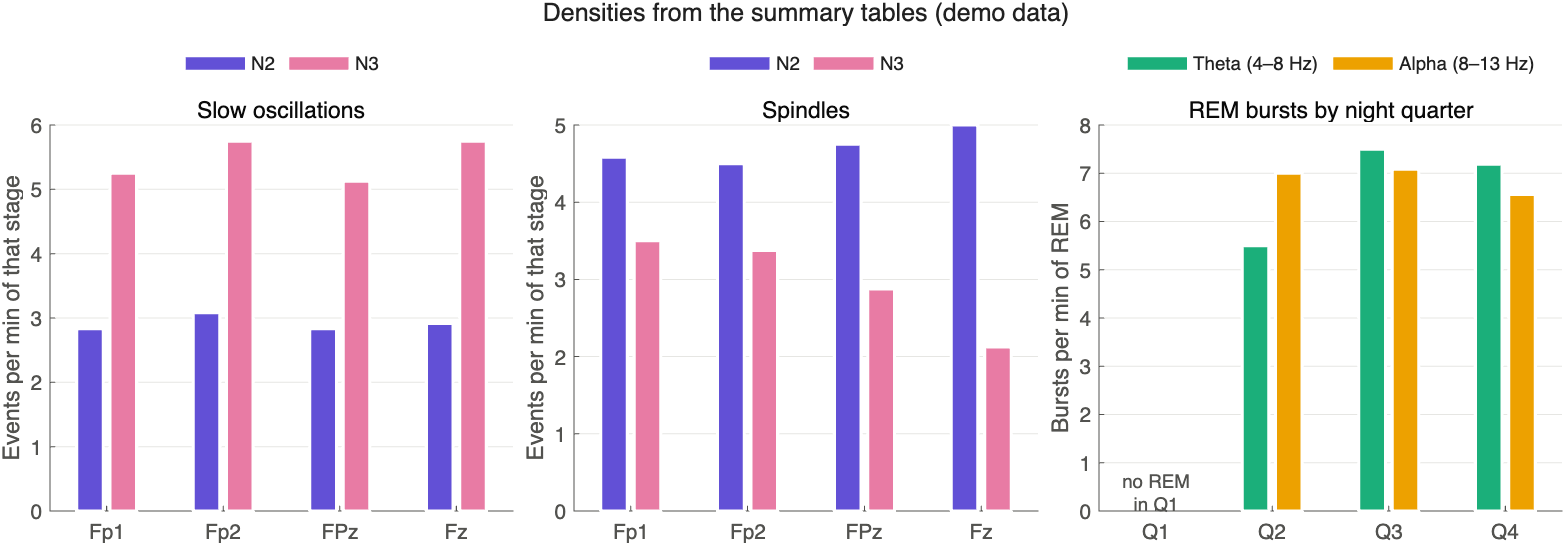
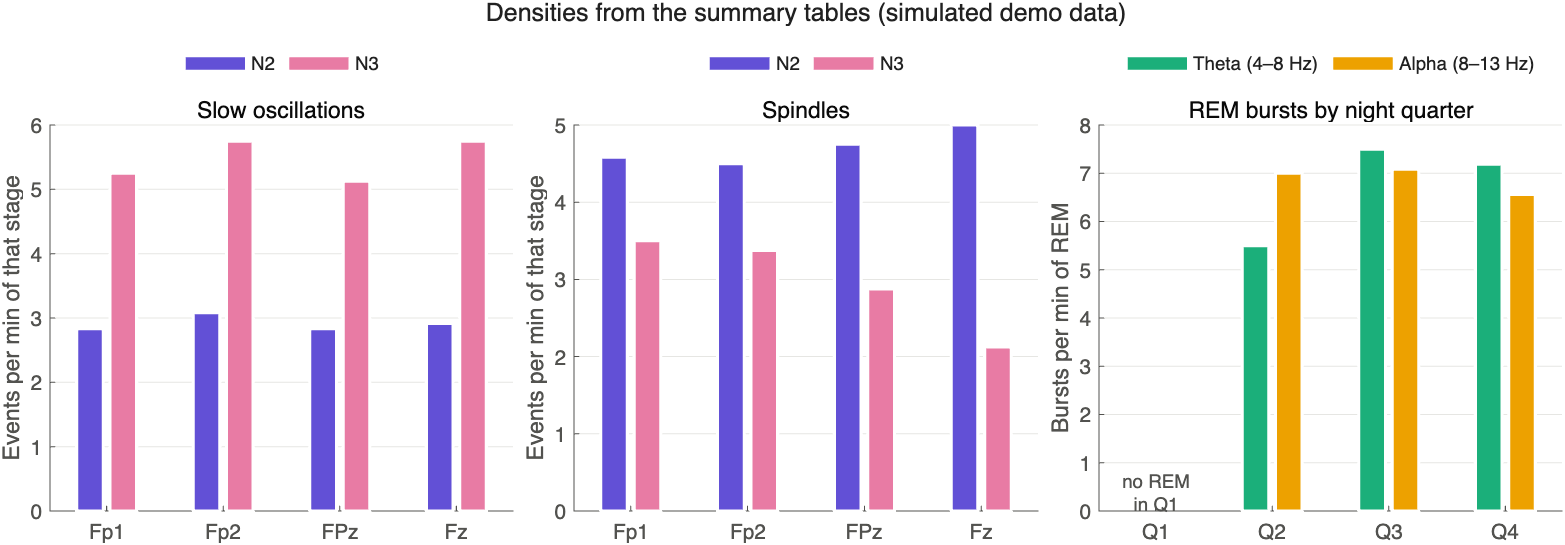
README and figures: state clearly that all figures come from simulated demo data

Changed region(s): [[0.3067, 0.0, 0.7361, 0.0624]]

diff --git a/docs/make_readme_figures.m b/docs/make_readme_figures.m
@@ -91,7 +91,7 @@ for k = find(isREM)
 end
 set(ax, 'YTick', 1:5, 'YTickLabel', names, 'XTickLabel', [], 'YLim', [0.5 5.5], 'XLim', [0 nightMin]);
 ax.YGrid = 'on';
-title(ax, 'Hypnogram and detected events (channel Fz, demo data)', 'FontWeight', 'normal', 'FontSize', 12);
+title(ax, 'Hypnogram and detected events (channel Fz, simulated demo data)', 'FontWeight', 'normal', 'FontSize', 12);
 
 rows = {
     'Slow oscillations', SO.SO_events.NegPeak_s(SO.SO_events.Channel == ch), C.blue;
@@ -144,7 +144,7 @@ env = abs(hilbert(xTH));
 w = t >= e.Start_s - 3 & t <= e.End_s + 3;
 plot(ax, t(w), env(w), 'Color', C.text2, 'LineWidth', 1);
 text(ax, e.End_s + 0.15, max(env(w)) * 0.95, 'envelope', 'Color', C.text2, 'FontSize', 9);
-title(tl, 'Example detections (channel Fz, demo data)', 'FontSize', 12);
+title(tl, 'Example detections (channel Fz, simulated demo data)', 'FontSize', 12);
 exportgraphics(f, fullfile(imgDir, '2_example_events.png'), 'Resolution', 150, 'BackgroundColor', 'white');
 
 %% Figure 3: wavelet map of the example spindle (saved by the toolbox)
@@ -177,7 +177,7 @@ ylabel(ax, 'Bursts per min of REM');
 title(ax, 'REM bursts by night quarter', 'FontWeight', 'normal');
 text(ax, 1, 0.4, {'no REM', 'in Q1'}, 'HorizontalAlignment', 'center', 'Color', C.text2, 'FontSize', 9);
 legend(ax, {'Theta (4–8 Hz)', 'Alpha (8–13 Hz)'}, 'Location', 'northoutside', 'Orientation', 'horizontal', 'Box', 'off');
-title(tl, 'Densities from the summary tables (demo data)', 'FontSize', 12);
+title(tl, 'Densities from the summary tables (simulated demo data)', 'FontSize', 12);
 exportgraphics(f, fullfile(imgDir, '4_summary_density.png'), 'Resolution', 150, 'BackgroundColor', 'white');
 
 %% Figure 5: detected vs. injected events (demo check)
@@ -197,7 +197,7 @@ end
 set(ax, 'XTick', 1:4, 'XTickLabel', labels, 'YLim', [0 110], 'YTick', 0:20:100);
 ax.YGrid = 'on';
 ylabel(ax, 'Injected events found (%)');
-title(ax, {'Demo check: how many injected events were detected', ...
+title(ax, {'Demo check (simulated data): how many injected events were detected', ...
     '\fontsize{9}\color[rgb]{0.32,0.32,0.31}bar = mean of 4 channels, circles = each channel'}, 'FontWeight', 'normal');
 exportgraphics(f, fullfile(imgDir, '5_demo_check.png'), 'Resolution', 150, 'BackgroundColor', 'white');
 

diff --git a/README.md b/README.md
@@ -7,7 +7,9 @@
 **Repository:** https://github.com/aliekhlasi/SleepRhythms
 
 ![Hypnogram and detected events across the demo night](docs/images/1_hypnogram_events.png)
-*Demo night, channel Fz: the hypnogram (top; REM shaded) and every event SleepRhythms detected. Slow oscillations and spindles appear in NREM sleep; theta and alpha bursts are counted in REM.*
+> **Note:** all figures on this page come from the built-in demo, which uses **simulated EEG** (1/f background noise with artificially added slow oscillations, spindles and bursts; see [The demo data](#the-demo-data)). They show how the toolbox works and what its outputs look like. They are **not results from real sleep recordings**.
+
+*Simulated demo night, channel Fz: the hypnogram (top; REM shaded) and every event SleepRhythms detected. Slow oscillations and spindles appear in NREM sleep; theta and alpha bursts are counted in REM.*
 
 ```mermaid
 flowchart LR
@@ -30,7 +32,7 @@ flowchart LR
 | **Alpha burst** | **8–13 Hz** | Envelope > mean + 2 SD (30-s window), duration 0.5–2 s | Whole recording | **REM** (night quarters, halves, whole night) |
 
 ![One example of each detected event](docs/images/2_example_events.png)
-*One detection of each kind from the demo (channel Fz). Top: raw EEG. Bottom: the band each detector works on. Shading: the detected event. For the theta burst, the gray line is the amplitude envelope that is compared with the threshold.*
+*One detection of each kind from the simulated demo data (channel Fz). Top: raw EEG. Bottom: the band each detector works on. Shading: the detected event. For the theta burst, the gray line is the amplitude envelope that is compared with the threshold.*
 
 ### Detected in vs. counted in the summary table
 
@@ -72,7 +74,7 @@ Density_per_min = number of events in that stage ÷ minutes scored as that stage
 The `N2+N3` density is **not** the average of the N2 and N3 densities: it's the combined count divided by the combined time. The minutes used are listed next to every density, in `StageDuration_min` (slow oscillations, spindles) or `REM_min` (bursts). If a stage doesn't occur in that period, its minutes are 0 and the density is `NaN`.
 
 ![Densities from the summary tables](docs/images/4_summary_density.png)
-*Densities from the demo's summary tables: slow oscillations and spindles per minute of N2 and N3 for each channel, and REM bursts per minute of REM in each night quarter (mean of the 4 channels). Q1 has no REM, so its density is `NaN`.*
+*Densities from the summary tables of the simulated demo data: slow oscillations and spindles per minute of N2 and N3 for each channel, and REM bursts per minute of REM in each night quarter (mean of the 4 channels). Q1 has no REM, so its density is `NaN`.*
 
 The EEG is first re-referenced to the mastoids. Every detected event is saved in a table (CSV and `.mat`) with its channel, sleep stage, timing and amplitude. A summary table gives counts and densities per channel.
 
@@ -155,6 +157,7 @@ A typical demo run finds about 80–90% of the injected slow oscillations, spind
 - The "extra" detections come from the random background, which by chance sometimes looks like an event.
 
 ![Demo check](docs/images/5_demo_check.png)
+*Simulated demo data: percentage of the artificially added events that the toolbox found, per event type.*
 
 The results differ slightly from run to run because the data are random. Use `rng(1)` before `Main_Toolbox` for identical runs.
 
@@ -376,7 +379,7 @@ re-referenced EEG ─────┼─ 0.3–35 Hz (EEGLAB FIR) ─┬─ 9–1
 3. *Waveform check*: the spindle must show clear oscillation peaks and stay below 200 µV. Onset and offset are refined to the first and last peak (`SpdlFrequencyInTime.m`).
 
 ![Wavelet map of a detected spindle](docs/images/3_spindle_wavelet.png)
-*Step 2 for one spindle (saved automatically in `3_Spindles/Figures/`): contour lines of wavelet power around the candidate (dotted line). The closed power island between the red 9 and 16 Hz lines makes it a spindle.*
+*Step 2 for one spindle from the simulated demo data (saved automatically in `3_Spindles/Figures/`): contour lines of wavelet power around the candidate (dotted line). The closed power island between the red 9 and 16 Hz lines makes it a spindle.*
 
 **Bursts** (`Burst_Detection_Theta_Alpha_toolbox.m` and `Burst Detection Functions/`), following Shuster et al. (2024): the signal is band-passed (EEGLAB) and its Hilbert amplitude envelope is computed. A burst is a period where the envelope exceeds mean + 2 SD of a 30-s moving window. The burst edges are extended while the amplitude stays above half the threshold, and a minimum number of cycles is required (`burst_detector2.m`).
 
